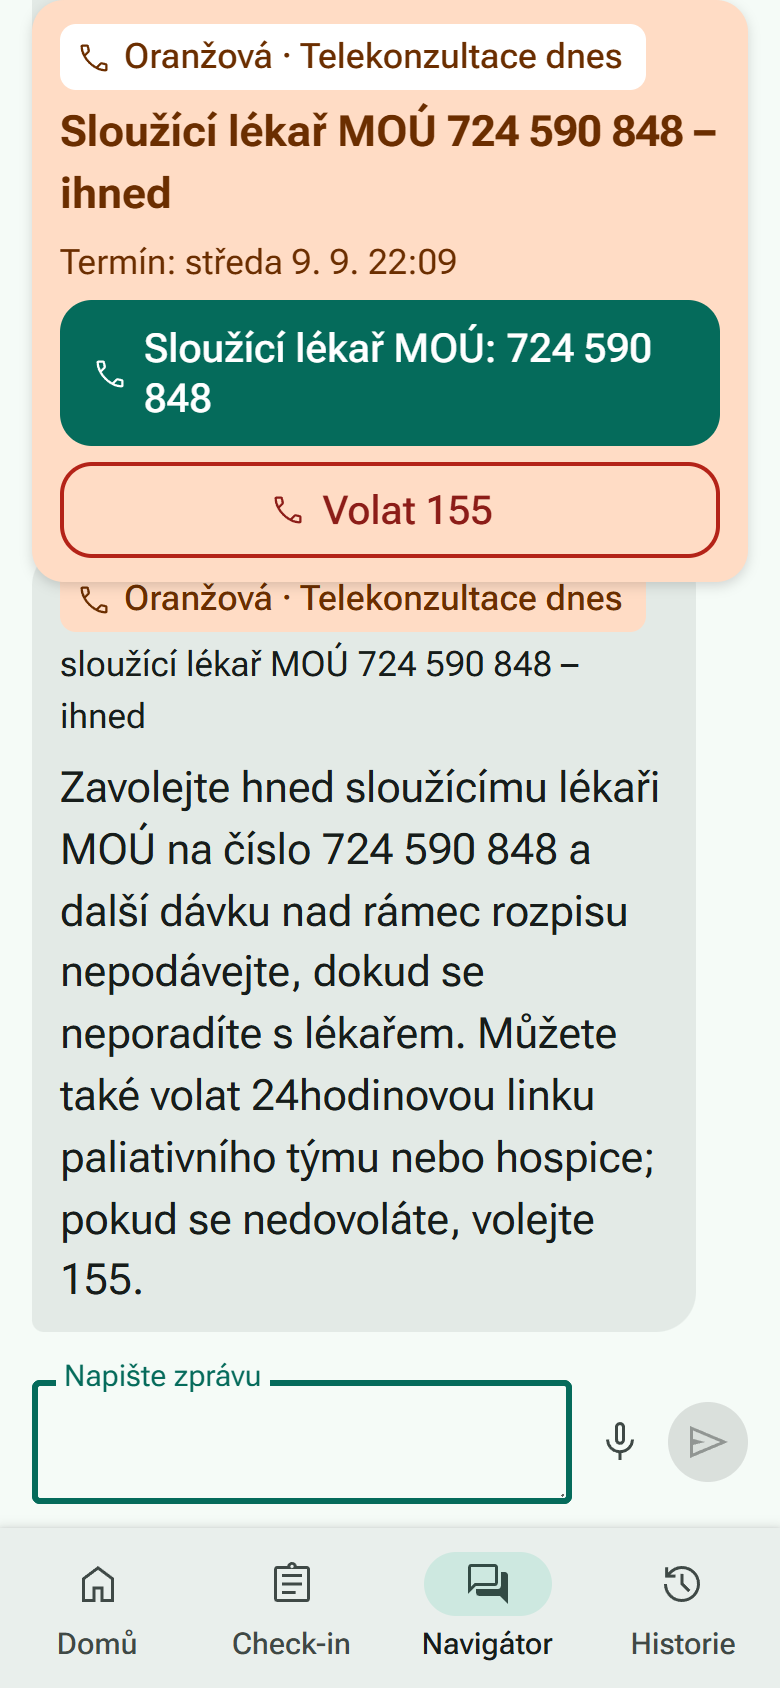
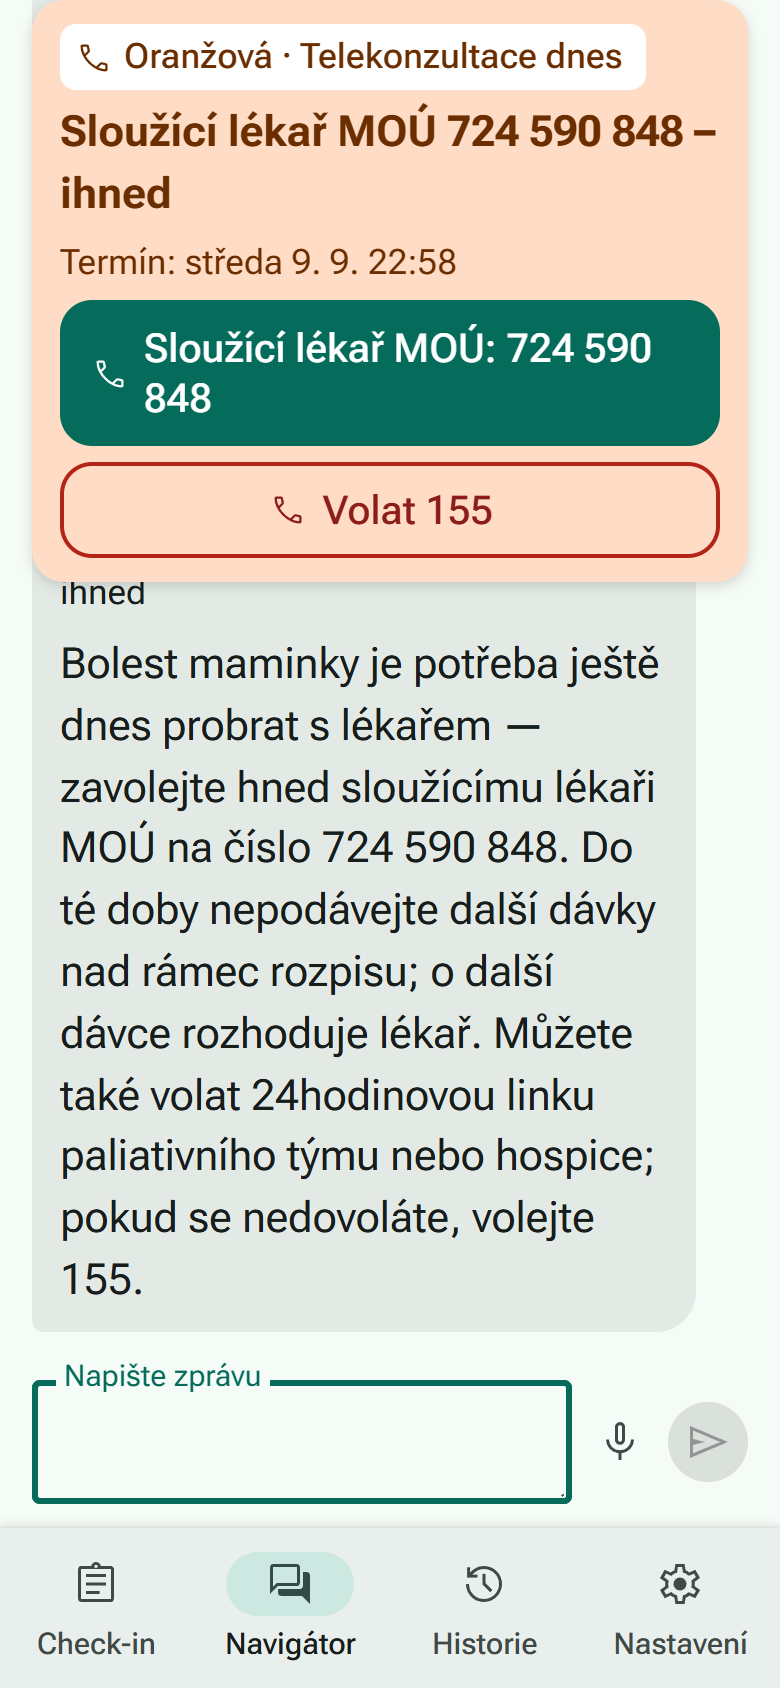
Show the restructured patient app in the README
The patient app now opens on the check-in and has Nastavení instead of the
home screen, so the gallery shows the check-in start with today's level, the
Akutní potíže dialog and the caregiver chat taken in caregiver mode, and the
old home and first chat screenshots are gone. The live demo table and the
demo script follow the new flow, and the push test row says where to turn
notifications on.

diff --git a/README.md b/README.md
@@ -36,7 +36,7 @@ team in time and gives the doctor a short, clear overview of how the patient's c
 
 | The brief asks for | What the navigator does | See |
 |---|---|---|
-| Support between check-ups | Patient PWA: a check-in tailored to the treatment, navigator chat in Czech and Slovak, caregiver mode, history | [Patient PWA](#patient-pwa) |
+| Support between check-ups | Patient PWA: a check-in tailored to the treatment, navigator chat in Czech and Slovak with an optional voice mode, caregiver mode, history | [Patient PWA](#patient-pwa) |
 | Keep following the symptoms | Every check-in and chat message is read with the earlier days: trends, the patient's own baselines, missed check-ins | [Triage flow](#how-a-check-in-is-triaged) |
 | Recognise risky changes | 49 deterministic rules, treatment context (nadir, drug classes), contradictions between the form and the free text | [Triage rules](#triage-rules) |
 | Recommend a safe next step | One of four levels with one step and the right phone numbers; validated texts, no diagnosis, no dose changes | [Red card](#patient-pwa) |
@@ -73,7 +73,7 @@ monitoring centre). A restart of the API resets the clock and the demo state.
 | | Link | What to try |
 |---|---|---|
 | **Patient app** | [pacient.nastasiya.com](https://pacient.nastasiya.com/?patient=ONC-001) | Open it at phone width (or install it); the *DEMO* bar on top switches the patient |
-| | [`?patient=ONC-001`](https://pacient.nastasiya.com/?patient=ONC-001) | Jana K., AC cycle 1 day 10 (nadir): *Check-in* tab, tick *Zvýšená teplota a horečky* and *Únava a slabost*, then *Teplota* 38,4 on the *Naměřené hodnoty* step → red |
+| | [`?patient=ONC-001`](https://pacient.nastasiya.com/?patient=ONC-001) | Jana K., AC cycle 1 day 10 (nadir): the app opens on the check-in; tick *Zvýšená teplota a horečky* and *Únava a slabost*, then *Teplota* 38,4 on the *Naměřené hodnoty* step → red |
 | | [`?patient=ONC-018`](https://pacient.nastasiya.com/?patient=ONC-018) | Štefan Ď., Slovak: tick only *Únava a slabost*, message „od vcera mam hnacku asi 6 krat, slaby som“ → orange with a follow-up |
 | | [`/navigator?patient=ONC-014`](https://pacient.nastasiya.com/navigator?patient=ONC-014) | Ludmila T., palliative care, her daughter writes: the chat opens in caregiver mode (*Píšete za: maminka*, leave it on) → „Můžu mamince dát další Oramorph?“ |
 | **Clinician web** | [lekar.nastasiya.com](https://lekar.nastasiya.com/#/fronta) | Desktop browser |
@@ -83,7 +83,7 @@ monitoring centre). A restart of the API resets the clock and the demo state.
 | | [`#/pacienti`](https://lekar.nastasiya.com/#/pacienti) | Patients sorted by the last level |
 | | [`#/pacienti/ONC-001`](https://lekar.nastasiya.com/#/pacienti/ONC-001) | Patient detail: regimen, tags, vitals trends, timeline |
 | | [`#/pravidla`](https://lekar.nastasiya.com/#/pravidla) | Routing by working hours, SLA and the rules |
-| | [`#/test-notifikace?patient=ONC-001`](https://lekar.nastasiya.com/#/test-notifikace?patient=ONC-001) | Web Push test: turn notifications on in the patient app on a real phone, send a test notification from here, a tap opens the check-in |
+| | [`#/test-notifikace?patient=ONC-001`](https://lekar.nastasiya.com/#/test-notifikace?patient=ONC-001) | Web Push test: on a real phone open the patient app with ONC-001 in the *DEMO* bar (iPhone: add it to the home screen first), *Nastavení* → *Zapnout upozornění*; then send a test notification from here, a tap opens the check-in |
 | **API** | [`/api/health`](https://lekar.nastasiya.com/api/health) | Status of IRIS, FHIR, the LLM and the MCP server |
 | | [`/mock/meddi/requests`](https://lekar.nastasiya.com/mock/meddi/requests) | Alerts (levels 2–4) that the IRIS production forwarded to the proposed MEDDI endpoint; empty after a restart until a new check-in or chat message reaches yellow or higher |
 
@@ -94,12 +94,12 @@ monitoring centre). A restart of the API resets the clock and the demo state.
 <table>
   <tr>
     <td width="33%" align="center" valign="top">
-      <img src="docs/screenshots/patient-home.png" alt="Patient home: today's check-in, treatment AC cycle 1 day 10, ambulance and 155 buttons">
-      <br><sub><b>Home.</b> Today's check-in, the treatment and cycle day, 155 always one tap away.</sub>
+      <img src="docs/screenshots/patient-checkin-start.png" alt="The app opens on the check-in: question 1 of 5, a note that today's check-in was red, a red phone button and the AI button">
+      <br><sub><b>Check-in first.</b> The app opens on today's questions and shows the level of today's check-in; the red phone opens the warning signs, <i>AI</i> the navigator.</sub>
     </td>
     <td width="33%" align="center" valign="top">
       <img src="docs/screenshots/patient-checkin-fever.png" alt="Check-in question about fever, marked as asked because of chemotherapy">
-      <br><sub><b>Check-in.</b> Questions follow the treatment: this one is asked <i>because of chemotherapy</i>. <i>AI</i> opens the navigator when unsure.</sub>
+      <br><sub><b>Questions follow the treatment.</b> This one is asked <i>because of chemotherapy</i>.</sub>
     </td>
     <td width="33%" align="center" valign="top">
       <img src="docs/screenshots/patient-result-red.png" alt="Red result: call 155 or the on-duty doctor, do not take paracetamol, the team has been alerted">
@@ -108,12 +108,12 @@ monitoring centre). A restart of the API resets the clock and the demo state.
   </tr>
   <tr>
     <td align="center" valign="top">
-      <img src="docs/screenshots/patient-chat-caregiver.png" alt="Navigator chat in caregiver mode: prescription quoted verbatim, the doctor decides about another dose">
-      <br><sub><b>Caregiver asks</b> „Můžu mamince dát další Oramorph?“ → yellow: no permission, the prescription quoted verbatim, the palliative line, and a question how many doses she has had today.</sub>
+      <img src="docs/screenshots/patient-acute.png" alt="Akutní potíže dialog: when to call at once, with Ambulance and 155 buttons">
+      <br><sub><b>Akutní potíže?</b> The warning signs in plain words with <i>Ambulance</i> and <i>155</i>, one tap from the check-in.</sub>
     </td>
     <td align="center" valign="top">
-      <img src="docs/screenshots/patient-chat-caregiver-2.png" alt="Navigator chat escalates to orange: call the on-duty doctor now">
-      <br><sub><b>Answer</b> „Dostala už dvě dávky a bolest je pořád 8“ → the chat re-triages to orange: on-duty doctor now.</sub>
+      <img src="docs/screenshots/patient-chat-caregiver-2.png" alt="Navigator chat in caregiver mode escalates to orange: call the on-duty doctor now, no dose beyond the prescription">
+      <br><sub><b>Caregiver mode.</b> After „Dostala už dvě dávky a bolest je pořád 8“ → orange: the on-duty doctor now, no dose beyond the prescription.</sub>
     </td>
     <td align="center" valign="top">
       <img src="docs/screenshots/patient-result-orange-sk.png" alt="Slovak orange result asking back about diarrhoea six times a day">
@@ -270,7 +270,7 @@ Before: `bash scripts/seed.sh --datasets dev,rozsirena --reset`, start API, MCP 
 
 1. **Problem.** MEDDI Onco colours each answer on its own; a fever in nadir, a creeping weight gain on trastuzumab or a
    contradiction between the form and the message gets lost.
-2. **Fever in nadir.** PWA `?patient=ONC-001` (Jana, AC C1 D10) → *Vyplnit dotazník* → tick *Zvýšená teplota* and
+2. **Fever in nadir.** PWA `?patient=ONC-001` (Jana, AC C1 D10) opens on the check-in → tick *Zvýšená teplota* and
    *Únava*, temperature `38,4`, message „Od odpoledne mi je zima a třese mě, naměřila jsem 38,4.“ → red full-screen
    card: *Zavolejte prosím hned*, call 155 and the on-duty doctor, „Paralen neužívejte…“, a phone script. Clinician web
    *Fronta*: pulsing red banner, task for the on-duty doctor with a 15-minute countdown and the escalation summary in
